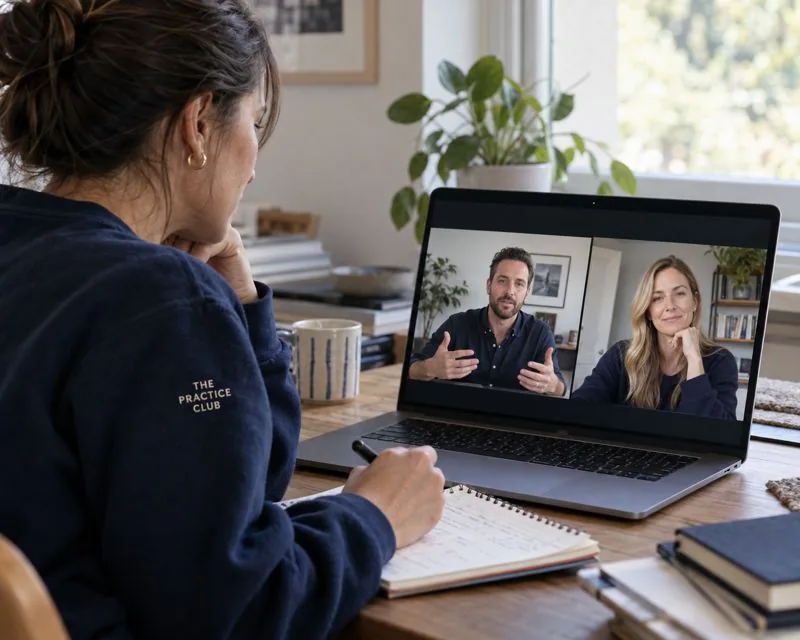
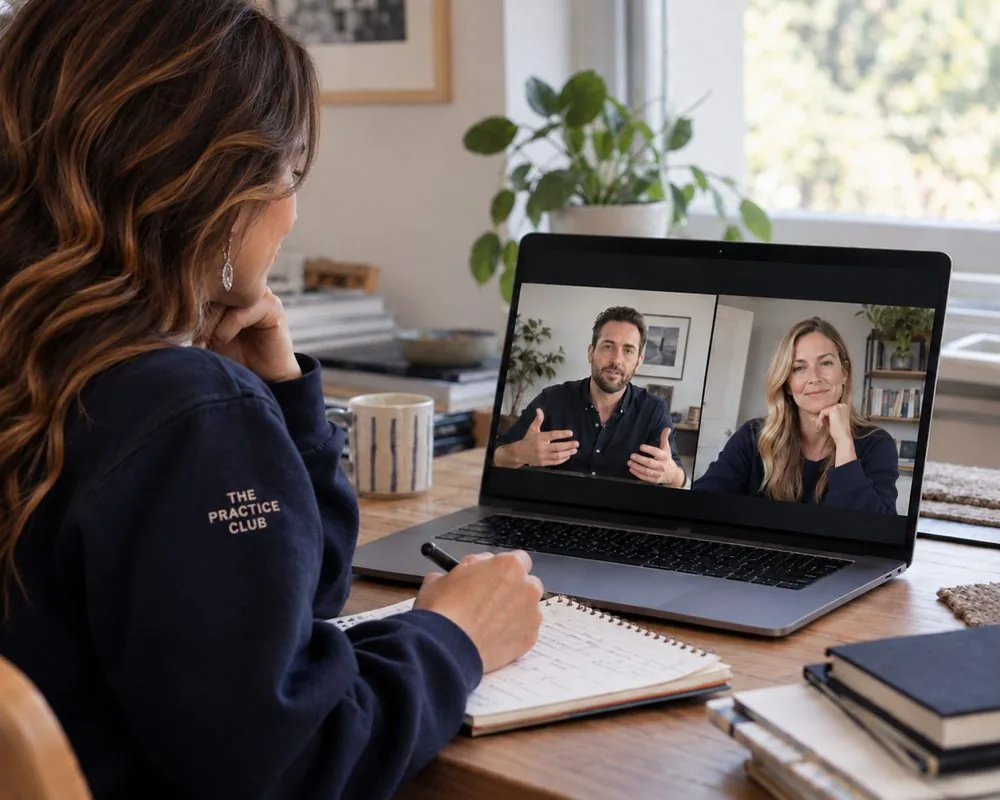
Make every button live and bring in the design's update
From the client's feedback of November 3:
- Start Practicing, Join the Club and Join the Movement open the membership in the
  app, so people can buy; /app's store buttons become Join the Club and Open the app.
- Enroll now opens INQ in the app; Start a conversation opens the INQ application.
- Get Your Company OS Score opens the assessment in the app. The score form goes
  straight there too, carrying what was typed after the # (never sent to a server).
- Talk to Our Team opens the InnerBoard OS discovery call on Calendly.
- The book button is Buy the Book (Replaceable on Amazon).
- "For the people doing the work." is centred under the Est. 2026 club lockup.

From the design's second version: the Practice wordmark, the club lockup, the club
marks in the ticker, and the new INQ, IOS, Lab and club photos, with cream versions
of the navy artwork for dark mode. The club hero button gets the cream fill so it
shows on the navy in light mode.

Claude-Session: https://claude.ai/code/session_016eeJ21GGDZmvVkMmqLCipo

diff --git a/src/scripts/practice.ts b/src/scripts/practice.ts
@@ -1,6 +1,6 @@
 /**
  * The site's one script (the design's own, page by page): the menu and the InnerBoard submenu, the Academy's
- * collections and levels, and the Company OS Score form. Everything it touches is in the page already, so
+ * collections and levels, and the Company OS Score form (into the assessment in the app). Everything it touches is in the page already, so
  * without it every page still reads in full.
  */
 const $ = <T extends HTMLElement = HTMLElement>(id: string) => document.getElementById(id) as T | null;
@@ -46,16 +46,15 @@ if (data && grid) {
   tabs.forEach((t) => t.addEventListener("click", () => { lvl = Number(t.dataset.level); draw(); }));
 }
 
-/* IOS: the Company OS Score form opens an email to the team with what was entered (the site has no form backend). */
-const iosForm = $<HTMLFormElement>("iosForm"), iosMsg = $("iosMsg");
-if (iosForm && iosMsg) {
+/* IOS: the Company OS Score form sends the visitor straight into the assessment in the app, with what they
+ * entered after the # (it stays in their browser, never in a request), for the app to take up when it creates their
+ * account. */
+const iosForm = $<HTMLFormElement>("iosForm");
+if (iosForm) {
   iosForm.addEventListener("submit", (e) => {
     e.preventDefault();
     const val = (id: string) => ($<HTMLInputElement>(id)?.value || "").trim();
-    const name = val("f-name"), org = val("f-org");
-    const body = [`Name: ${name}`, `Organization: ${org}`, `Work email: ${val("f-email")}`, `Team size: ${val("f-size")}`, "", "What we would like to improve:", val("f-goal")].join("\n");
-    const to = iosForm.dataset.to || "info@innerboardsuite.com";
-    location.href = `mailto:${to}?subject=${encodeURIComponent(`Company OS Score: ${org}`)}&body=${encodeURIComponent(body)}`;
-    iosMsg.textContent = `Thanks, ${name.split(" ")[0]}. Your email is ready to send to ${to}. If it didn’t open, write to that address and we’ll start with your baseline.`;
+    const intake = new URLSearchParams({ name: val("f-name"), org: val("f-org"), email: val("f-email"), size: val("f-size"), goal: val("f-goal") });
+    location.href = `${iosForm.dataset.to}#${intake}`;
   });
 }

diff --git a/src/config/links.ts b/src/config/links.ts
@@ -21,14 +21,22 @@ export const ROUTES = {
 } as const;
 
 export const LINKS = {
-  /** Start Practicing, where it means open the app itself (the app page's membership). */
+  /** Open the app itself. */
   start: into("/", "suite"),
+  /** Buy: the app's membership page (Join the Practice Club, $29 a month or $249 a year), where an account and
+   * checkout begin. Every button on the site that sells the membership goes here. */
+  join: into("/membership", "suite"),
   /** Enroll now (INQ): the INQ Certification inside the app. */
   inqEnroll: into("/certifications/inq", "inq"),
-  /** Start a conversation (INQ). Pending: the INQ booking URL. */
-  inqTalk: "mailto:info@innerboardsuite.com?subject=INQ%20Certification%3A%20start%20a%20conversation",
-  /** Where the Company OS Score request goes until the site has a form backend. */
-  osEmail: "info@innerboardsuite.com",
+  /** Start a conversation (INQ): the INQ application, the first step on the INQ page the old site runs today
+   * (innerboardsuite.com/inq-certification-lp). Swap for an INQ Calendly when there is one. */
+  inqTalk: "https://api.leadconnectorhq.com/widget/survey/Z4JAbqIQ1CFb4Ep3G5dH",
+  /** Get Your Company OS Score: the assessment itself, in the app (the page the book prints, /os/score). */
+  osScore: into("/os/score", "os"),
+  /** Talk to Our Team (IOS): the InnerBoard OS discovery call on Calendly. */
+  osTalk: "https://calendly.com/innerboardos-support/os-discovery-call",
+  /** Buy the Book: Replaceable on Amazon (the app's own Buy the Book link resolves here). */
+  book: "https://www.amazon.com/dp/0998174475",
   contactEmail: "info@innerboardsuite.com"
 } as const;
 

diff --git a/src/styles/practice.css b/src/styles/practice.css
@@ -561,3 +561,23 @@ footer{background:var(--navy);color:var(--on-navy-muted);padding-block:56px 40px
 .journey-app{display:grid;grid-template-columns:auto minmax(0,1fr);gap:72px;align-items:center;margin-top:44px}
 .journey-app .journey-list{margin:0}
 @media(max-width:860px){.journey-app{grid-template-columns:1fr;gap:40px}.journey-app .journey-list{margin-left:17px}}
+
+/* The brand logo kit (the design's update of November 2): the wordmark, the club lockup and the club's marks are
+ * images, each in navy for light screens with a cream cut for dark mode (DualImage.astro). */
+.wm-img{height:42px;width:auto;display:block}
+.wm-foot{height:46px}
+.club-h1{margin:18px 0 0;line-height:0}
+.club-h1 img{width:min(520px,100%);height:auto;display:block}
+.tpc-hero{width:44px}
+.tpc-panel img{width:110px}
+.club-h2{margin:0;line-height:0}
+.club-h2 img{width:min(340px,100%);height:auto;display:block}
+.ticker.marks .ticker-set{gap:56px;padding-right:56px}
+.ticker.marks picture{flex:none;display:block}
+.ticker.marks .mark{height:64px;width:auto;flex:none;display:block}
+@media(max-width:700px){.wm-img{height:34px}.ticker.marks .mark{height:44px}.ticker.marks .ticker-set{gap:32px}}
+/* The club line sits centred under the Est. 2026 lockup, as wide as the lockup (the client, November 3). */
+.club-h1 + .tagline{width:min(520px,100%);text-align:center}
+.club-hero .btn-solid{background:var(--on-navy);color:#1B2332}
+.club-hero .btn-solid:hover{background:var(--gold);color:#fff}
+.club-h2 + p{width:min(340px,100%);text-align:center}

diff --git a/README.md b/README.md
@@ -37,6 +37,7 @@ host, so a texted link shows it), and the P mark as favicon and home screen icon
 
 - `src/layouts/Practice.astro`: the head, the header, the page, the footer, the script.
 - `src/components/Header.astro`, `Footer.astro`: the design's header (with the InnerBoard submenu) and footer.
+- `src/components/DualImage.astro`: an image with a dark mode version (the wordmark, the club lockup, the marks).
 - `src/components/AppPhone.astro`: a real screen of the app in a phone (the client, November 1: real screenshots,
   in a phone's shape, in place of the design's drawn app previews). Four screens, captured from the live app as a
   visitor on a phone (390 x 844 at 2x, light theme, a weekday morning): Today on the home page, Set Up Your Day on
@@ -48,7 +49,8 @@ host, so a texted link shows it), and the P mark as favicon and home screen icon
   collections and their lessons, the INQ modules.
 - `src/styles/practice.css`: the design's stylesheet as written (fonts self-hosted, the hash routing removed), with
   the few additions the site needs at the end.
-- `src/scripts/practice.ts`: the menu and submenu, the Academy collections and levels, the Company OS Score form.
+- `src/scripts/practice.ts`: the menu and submenu, the Academy collections and levels, the Company OS Score form (into
+  the app's assessment).
 - `src/config/links.ts`: every route and every outside destination.
 - `public/images/practice/`: the design's photos as WebP, the P mark, the INQ mark, the TPC monograms, the book
   cover. `public/fonts/`: Fraunces (with its optical size axis, which the design's display type uses) and
@@ -64,17 +66,30 @@ host, so a texted link shows it), and the P mark as favicon and home screen icon
   `#D8CCBC`, muted `#5D6270`, OS blue `#213B60`, OS ink `#2C4E7E`, its dark mode and the shades of its drawn
   details. `npm run brand` holds the build to that list.
 - **Leah Roling's book** stays on `/ios`, as designed (the client, November 1), with the real cover.
-- **Where the design pointed at itself**, the site points at the real place: Start Practicing on the app page opens
-  the app; Enroll now opens INQ Certification in the app; the second Start a conversation on `/inq` writes to the
-  team. The Company OS Score form opens an email to the team with what was entered, because the site has no form
-  backend yet. The App Store and Google Play buttons and Shop opens soon stay as the design has them (coming soon).
+- **Every button goes somewhere real** (the client, November 3: "we need to make sure these buttons are live"). The
+  design's own hash links became these, all in `src/config/links.ts`:
+  - The membership's Start Practicing, Join the Club and Join the Movement open the membership in the app
+    (`/membership`), where people buy; Open the app opens the app itself. The header's Start Practicing opens `/app`.
+  - Enroll now opens INQ Certification in the app (`/certifications/inq`); Start a conversation opens the INQ
+    application form the team already runs.
+  - Get Your Company OS Score, everywhere it appears, opens the assessment in the app (`/os/score`). Talk to Our Team opens the InnerBoard OS discovery call on Calendly (the "Leah or Abra"
+    scheduler on the old innerboardos.com booking page).
+  - The Company OS Score form takes people straight into the assessment, with what they typed after the `#` of the
+    address (name, organization, email, size, goal). The part after the `#` stays in the browser and is never sent
+    to a server; it is there so the app can read it and open an account for them once the app supports that.
+  - Buy the Book opens Replaceable on Amazon.
+  - Shop opens soon stays as the design has it (there is no shop yet).
+- **The design's update** (the second version of the same design) is in: the Practice wordmark in the
+  header and footer, The Practice Club lockup (Est. 2026) on the club page and the home page with "For the people
+  doing the work." centred under it, the club marks in the ticker, and the new photos on the INQ, IOS, Lab and club
+  pages. The navy logo and marks have cream versions (`*-light.webp`) that `DualImage.astro` swaps in for dark mode.
 - **Added** only what a live site needs: the privacy and terms links in the footer's fine print, the legal pages,
   the 404 page, and styles for the menu without the script.
 
 ## Links still to confirm
 
-In `src/config/links.ts`: the INQ conversation (an email for now), and where the Company OS Score form should send
-(an email for now). App Store, Google Play and the shop are marked coming soon in the design.
+In `src/config/links.ts`: Start a conversation on `/inq` opens the team's INQ application form; swap it for an INQ
+Calendly if there is one. The App Store and Google Play listings, and the shop, do not exist yet.
 
 ## Deploy
 
